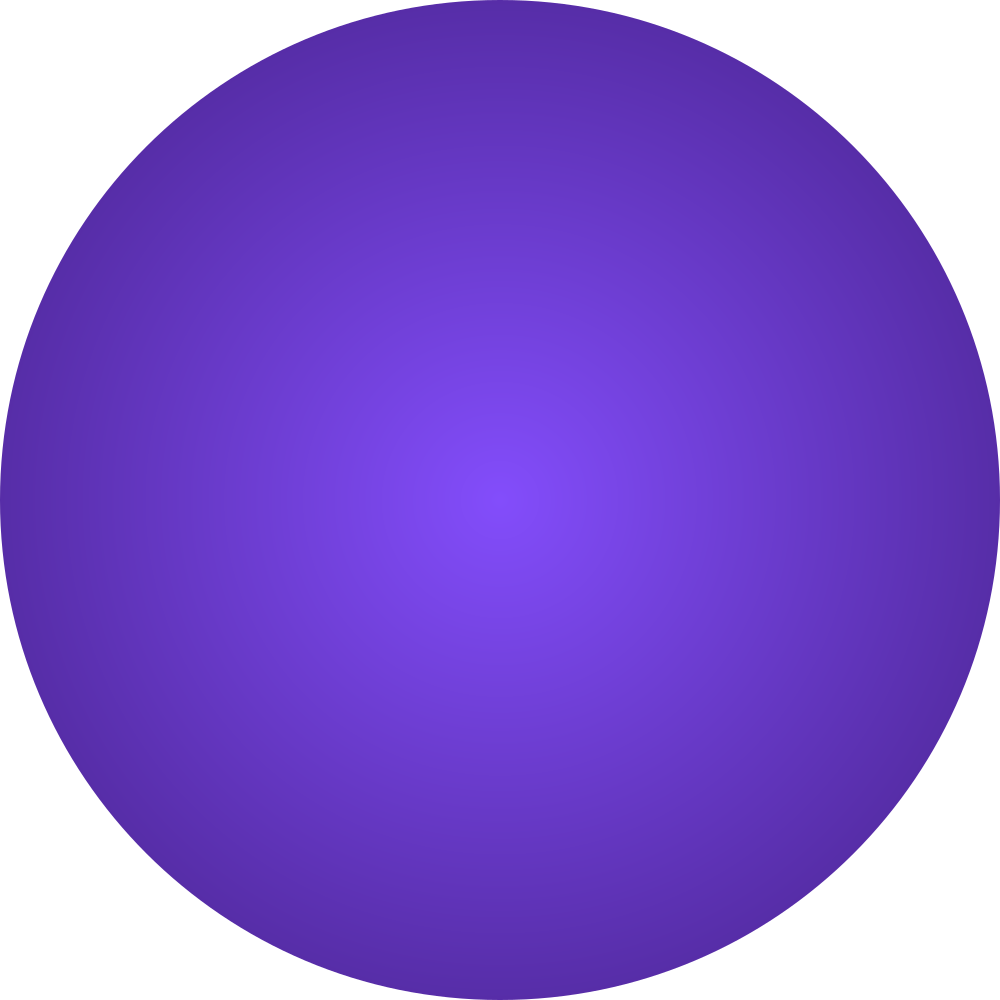
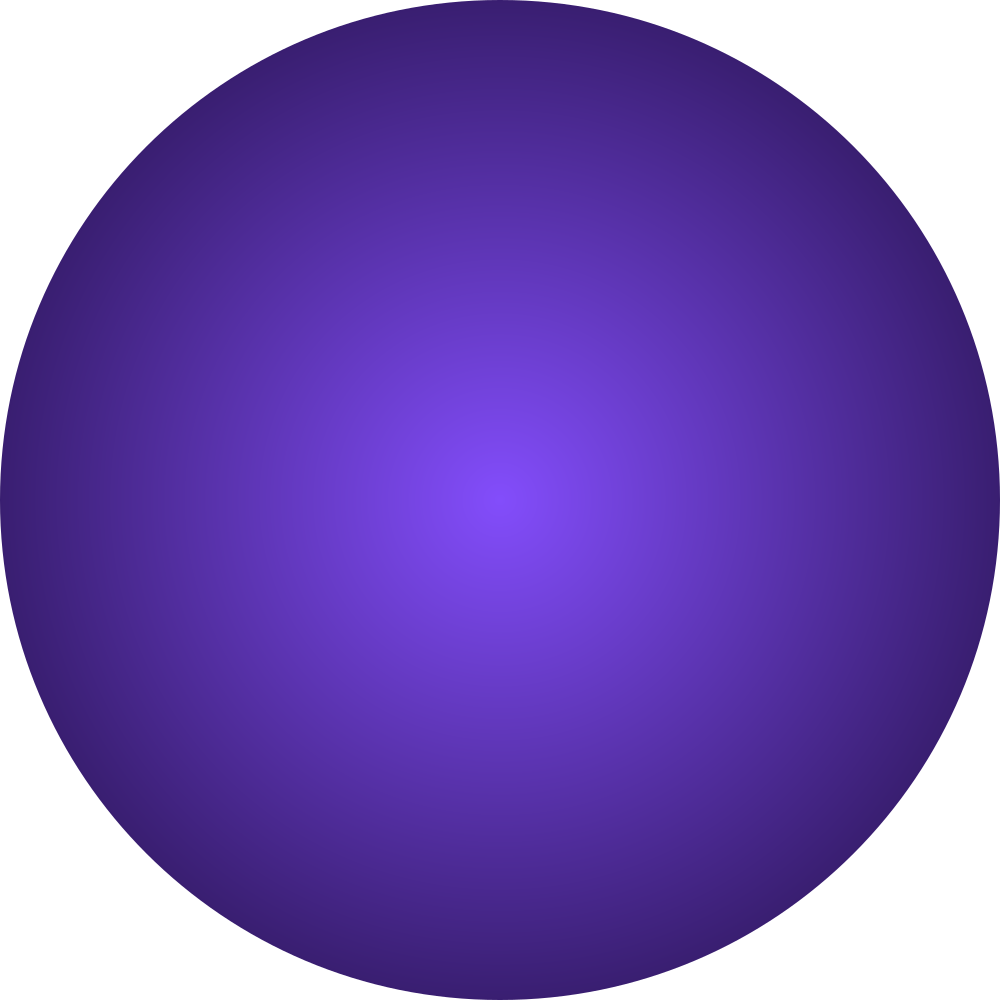
deepen violet backdrop + mobile bg remover
- backdrop radial now #834dfb → #26124d (was #4b2592) on all violet chips
- refresh cube + tag + soft accents from updated source svgs
- add remove-background button to the mobile bottom bar, mirrored to desktop button state

diff --git a/index.html b/index.html
@@ -303,6 +303,17 @@
       border: 1.5px solid var(--violet); color: #fff; font-weight: 600; font-size: 14px;
       border-radius: 13px; background: rgba(127,71,251,.16); cursor: pointer;
     }
+    .mbgrm {
+      width: 100%; height: 46px; margin-top: -2px;
+      display: flex; align-items: center; justify-content: center; gap: 8px;
+      border: 1px solid var(--line); background: var(--panel-2); color: var(--offwhite);
+      border-radius: 12px; font-size: 13px; font-weight: 500; cursor: pointer;
+    }
+    .mbgrm:disabled { opacity: .55; }
+    .mbgrm svg { width: 14px; height: 14px; color: var(--lav); }
+    .mbgrm.working { color: var(--yellow); border-color: var(--yellow); }
+    .mbgrm.working svg { color: var(--yellow); animation: bgrmSpin 1.2s linear infinite; }
+    body.no-photo .mbgrm { display: none; }
     .mtools { display: flex; justify-content: center; gap: 24px; }
     .mtools button {
       height: auto; padding: 4px; border: none; background: none; border-radius: 0;
@@ -413,6 +424,10 @@
     <div class="mchip" data-style="violet-tag"><img src="frames/violet-back-flat.png" alt="violet tag frame"><img class="acc" src="frames/violet-tag-acc.png" alt=""></div>
     <div class="mchip" data-style="violet-tag-soft"><img src="frames/violet-back-flat.png" alt="violet soft tag frame"><img class="acc" src="frames/violet-tag-soft-acc.png" alt=""></div>
   </div>
+  <button type="button" class="mbgrm" id="mbgrm" disabled>
+    <svg viewBox="0 0 24 24" fill="none" stroke="currentColor" stroke-width="2" stroke-linecap="round" stroke-linejoin="round"><path d="M12 2v4M12 18v4M4.93 4.93l2.83 2.83M16.24 16.24l2.83 2.83M2 12h4M18 12h4M4.93 19.07l2.83-2.83M16.24 7.76l2.83-2.83"/></svg>
+    <span id="mbgrmLabel">remove background</span>
+  </button>
   <button class="mdownload" id="mdownload">download png</button>
   <div class="mtools">
     <button id="mchange">↻ change photo</button>
@@ -587,9 +602,16 @@
       downloadBtn.disabled = false;
       document.getElementById('filebtn').classList.remove('pulse');
       document.getElementById('filebtnLabel').textContent = 'change image';
-      document.getElementById('bgrm').disabled = false;
-      document.getElementById('bgrmLabel').textContent = 'remove background';
-      document.getElementById('bgrm').classList.remove('working');
+      ['bgrm', 'mbgrm'].forEach(id => {
+        const b = document.getElementById(id);
+        if (!b) return;
+        b.disabled = false;
+        b.classList.remove('working');
+      });
+      ['bgrmLabel', 'mbgrmLabel'].forEach(id => {
+        const l = document.getElementById(id);
+        if (l) l.textContent = 'remove background';
+      });
       document.body.classList.remove('no-photo');
       document.body.classList.add('has-photo');   // step 1 → step 2 on mobile
       // a fresh photo means bg has NOT been removed yet — re-lock the violet chips
@@ -740,8 +762,13 @@
 </script>
 
 <script type="module">
-  const btn = document.getElementById('bgrm');
-  const label = document.getElementById('bgrmLabel');
+  // desktop sidebar button + mobile bottom-bar button — both drive the same flow
+  const btns   = [document.getElementById('bgrm'),       document.getElementById('mbgrm')].filter(Boolean);
+  const labels = [document.getElementById('bgrmLabel'),  document.getElementById('mbgrmLabel')].filter(Boolean);
+  const setLabel    = (text) => labels.forEach(l => l.textContent = text);
+  const setDisabled = (v)    => btns.forEach(b => b.disabled = v);
+  const setWorking  = (v)    => btns.forEach(b => b.classList.toggle('working', v));
+
   let removeBackground = null;
   let loadingLib = null;
   const LIB_URL = 'https://cdn.jsdelivr.net/npm/@imgly/background-removal@1.5.5/+esm';
@@ -752,26 +779,27 @@
     return loadingLib;
   }
 
-  btn.addEventListener('click', async () => {
+  async function runBgRemove() {
     if (!window.__hexalog?.hasPhoto()) return;
-    btn.disabled = true;
-    btn.classList.add('working');
-    label.textContent = 'loading model…';
+    setDisabled(true);
+    setWorking(true);
+    setLabel('loading model…');
     try {
       await loadLib();
       const src = window.__hexalog.getPhotoBlobURL();
-      label.textContent = 'removing background…';
+      setLabel('removing background…');
       const blob = await removeBackground(src, { output: { format: 'image/png', quality: 0.95 } });
       window.__hexalog.setPhotoFromBlob(blob);
-      label.textContent = 'background removed';
-      setTimeout(() => { label.textContent = 'remove background'; btn.disabled = false; btn.classList.remove('working'); }, 1600);
+      setLabel('background removed');
+      setTimeout(() => { setLabel('remove background'); setDisabled(false); setWorking(false); }, 1600);
     } catch (e) {
       console.error('bg-remove failed:', e);
-      label.textContent = 'failed — try again';
-      btn.classList.remove('working');
-      setTimeout(() => { label.textContent = 'remove background'; btn.disabled = false; }, 2000);
+      setLabel('failed — try again');
+      setWorking(false);
+      setTimeout(() => { setLabel('remove background'); setDisabled(false); }, 2000);
     }
-  });
+  }
+  btns.forEach(b => b.addEventListener('click', runBgRemove));
 </script>
 </body>
 </html>